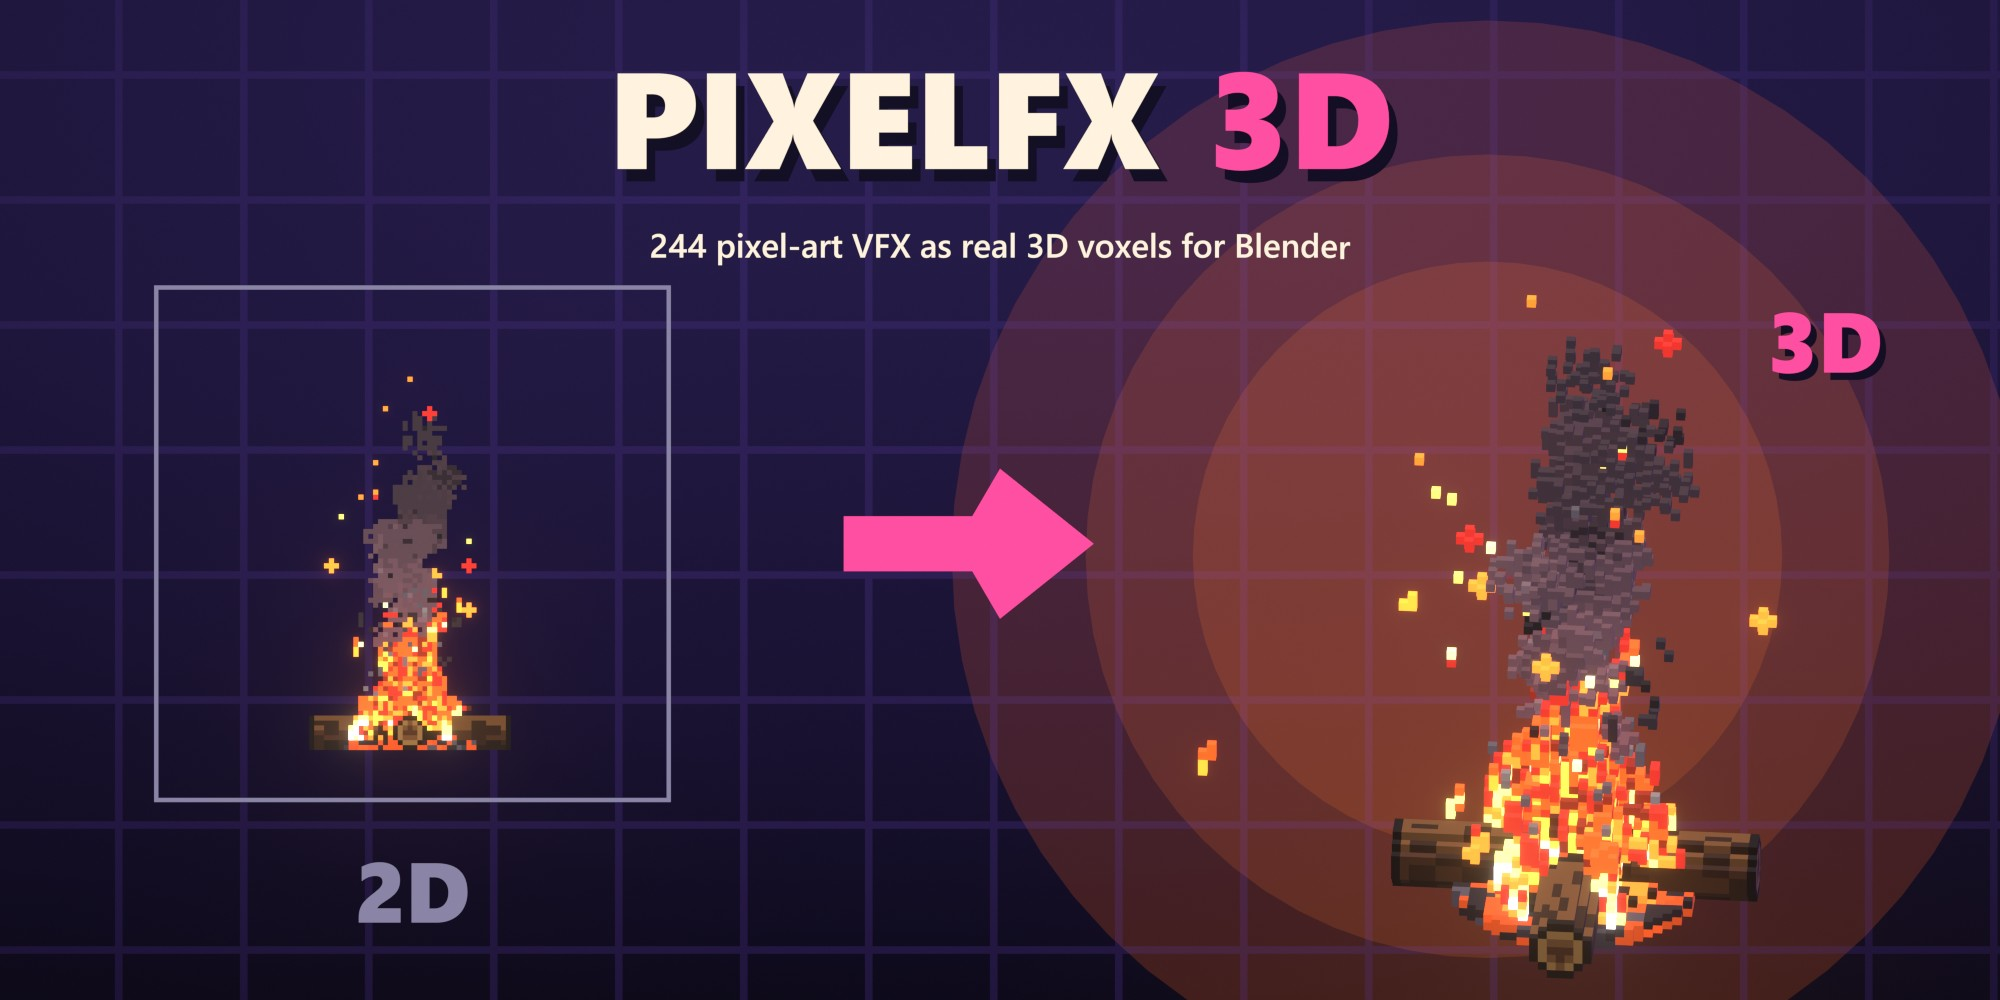
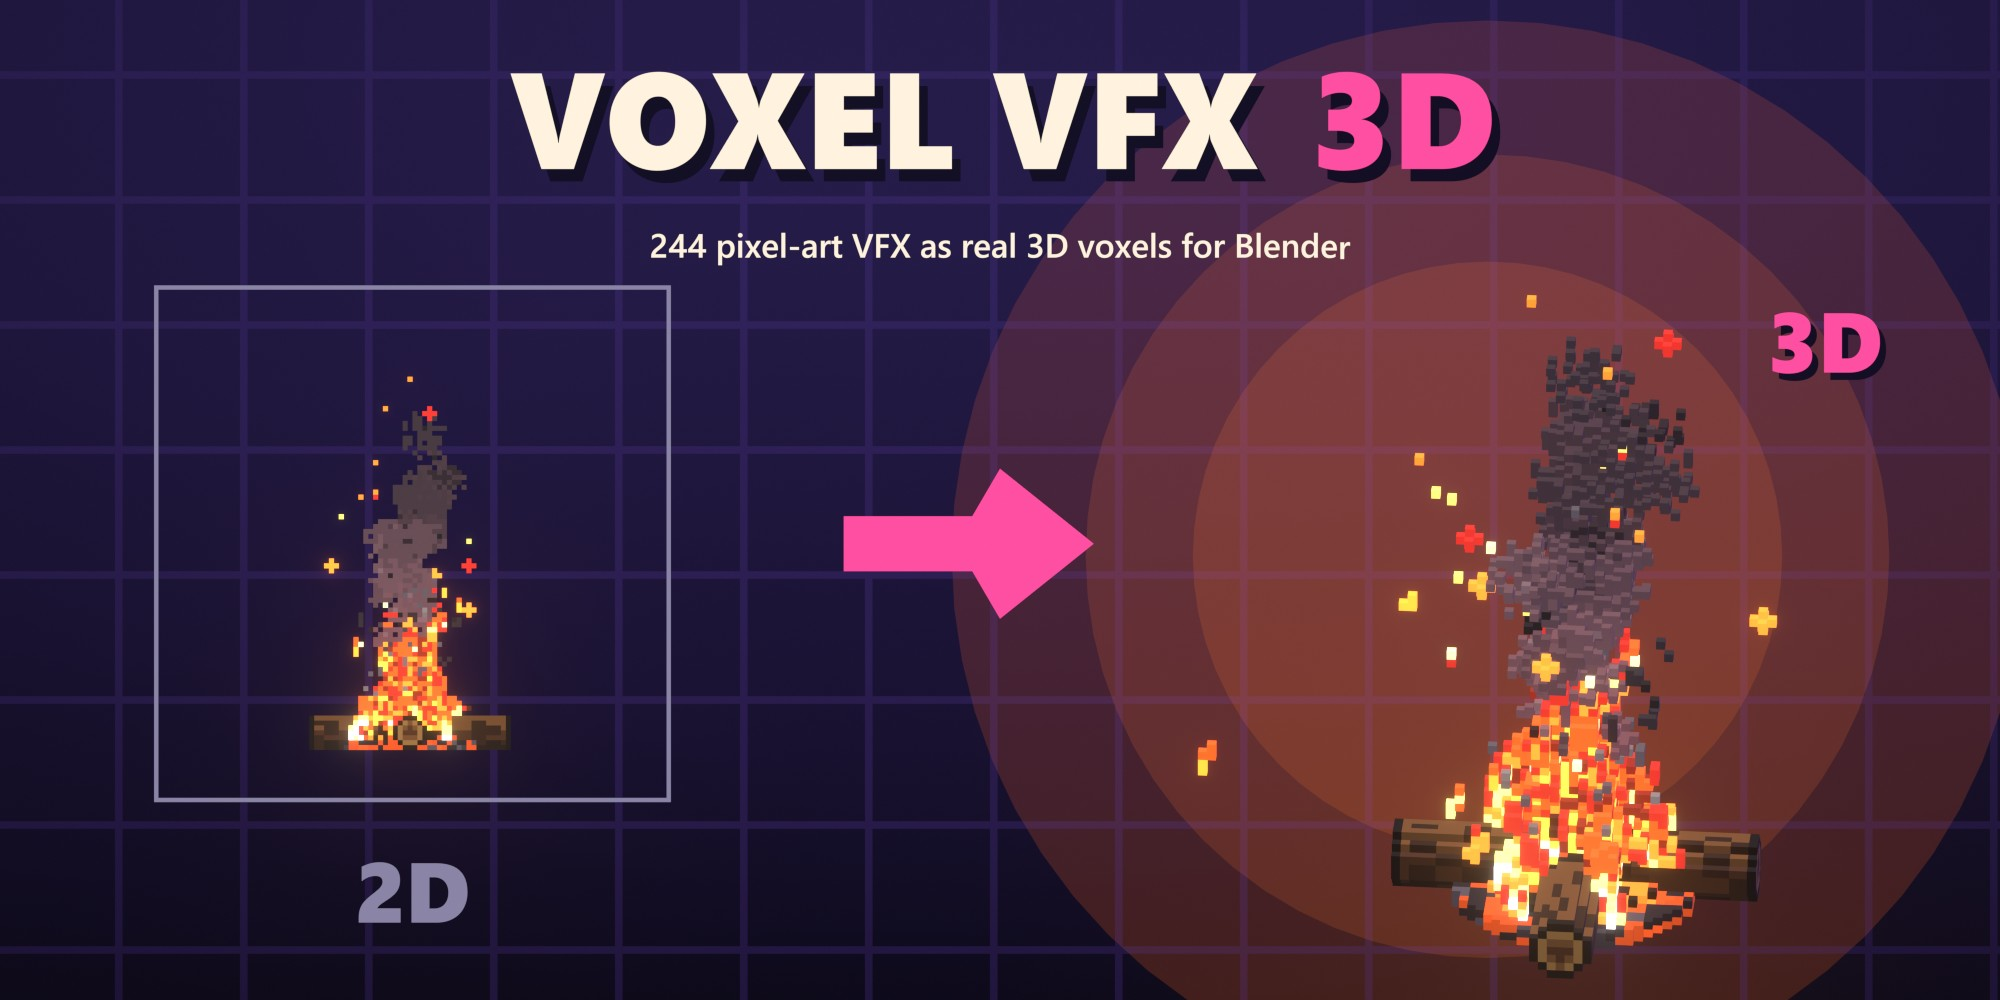
Rename the product to Voxel VFX 3D

Changed region(s): [[0.248, 0.062, 0.775, 0.186]]

diff --git a/docs.html b/docs.html
@@ -3,10 +3,10 @@
 <head>
 <meta charset="utf-8">
 <meta name="viewport" content="width=device-width, initial-scale=1">
-<title>PixelFX 3D: documentation</title>
-<meta name="description" content="How to install and use PixelFX 3D, the 3D voxel VFX library for Blender.">
-<meta property="og:title" content="PixelFX 3D: documentation">
-<meta property="og:description" content="How to install and use PixelFX 3D, the 3D voxel VFX library for Blender.">
+<title>Voxel VFX 3D: documentation</title>
+<meta name="description" content="How to install and use Voxel VFX 3D, the 3D voxel VFX library for Blender.">
+<meta property="og:title" content="Voxel VFX 3D: documentation">
+<meta property="og:description" content="How to install and use Voxel VFX 3D, the 3D voxel VFX library for Blender.">
 <meta property="og:image" content="images/thumbnail.jpg">
 <link rel="stylesheet" href="assets/style.css">
 </head>
@@ -14,7 +14,7 @@
 
 <header class="hero">
   <div class="wrap">
-    <h1 class="logo">PIXELFX <span>3D</span></h1>
+    <h1 class="logo">VOXEL VFX <span>3D</span></h1>
     <p class="tagline">Documentation</p>
     <nav class="docnav">
       <a href="#install">Install</a><a href="#use">Use an effect</a><a href="#inputs">Modifier inputs</a><a href="#timing">Timing</a>
@@ -29,11 +29,11 @@
     <div class="kicker">1</div>
     <h2>Install the library</h2>
     <ol class="steps">
-      <li>Unzip <b>PixelFX3D_Library.zip</b> somewhere it can stay, for example <code>Documents/Blender Assets/PixelFX 3D</code>. The folder holds <code>PixelFX 3D.blend</code>, its catalogs, a README and the license.</li>
+      <li>Unzip <b>VoxelVFX3D_Library.zip</b> somewhere it can stay, for example <code>Documents/Blender Assets/Voxel VFX 3D</code>. The folder holds <code>Voxel VFX 3D.blend</code>, its catalogs, a README and the license.</li>
       <li>In Blender open <b>Edit &gt; Preferences &gt; File Paths &gt; Asset Libraries</b>, press <b>+</b> and pick that folder.</li>
       <li>Leave the import method on <b>Append (Reuse Data)</b>: every effect you add shares one copy of the player node group.</li>
     </ol>
-    <div class="note"><p>PixelFX 3D is not an add-on. There is nothing to enable, and a .blend you send to someone else plays the effects as long as they have Blender 5.2 or newer.</p></div>
+    <div class="note"><p>Voxel VFX 3D is not an add-on. There is nothing to enable, and a .blend you send to someone else plays the effects as long as they have Blender 5.2 or newer.</p></div>
   </div>
 </section>
 
@@ -42,12 +42,12 @@
     <div class="kicker">2</div>
     <h2>Use an effect</h2>
     <ol class="steps">
-      <li>Turn any area into an <b>Asset Browser</b> (the timeline works well) and choose the <b>PixelFX 3D</b> library at the top left.</li>
+      <li>Turn any area into an <b>Asset Browser</b> (the timeline works well) and choose the <b>Voxel VFX 3D</b> library at the top left.</li>
       <li>Pick a category on the left, or type in the search field: <i>fire</i>, <i>portal</i>, <i>coin</i>.</li>
       <li>Drag an effect into the 3D viewport and let go. It lands on the surface under the cursor.</li>
       <li>Press play (<kbd>Space</kbd>). Every effect loops from frame 1.</li>
     </ol>
-    <p>An effect is an ordinary object: move, rotate and scale it, parent it to something, duplicate it with <kbd>Shift</kbd> <kbd>D</kbd>. Its mesh is empty; the <b>PixelFX 3D</b> modifier builds the cubes for the current frame, so the effect only appears when the modifier is on.</p>
+    <p>An effect is an ordinary object: move, rotate and scale it, parent it to something, duplicate it with <kbd>Shift</kbd> <kbd>D</kbd>. Its mesh is empty; the <b>Voxel VFX 3D</b> modifier builds the cubes for the current frame, so the effect only appears when the modifier is on.</p>
     <p>Change an effect's size by scaling the object, or with <b>Pixel Size</b> in the modifier's <b>Baked Effect</b> panel (the size of one art pixel, 0.025 m by default).</p>
   </div>
 </section>
@@ -131,7 +131,7 @@
     <h2>Troubleshooting</h2>
     <details><summary>I dropped an effect and nothing shows</summary><p>Check the modifier is enabled in the viewport, and that Loop is on, or that the current frame is after Start Frame. Some effects start small (a spark that grows into an explosion): play a few frames.</p></details>
     <details><summary>It looks flat or dull</summary><p>Add bloom (see Rendering) and use a dark world. In Solid view the voxels show without their glow: switch to Material Preview or Rendered.</p></details>
-    <details><summary>The library doesn't appear in the Asset Browser</summary><p>Make sure the folder you added in Preferences is the one with <code>PixelFX 3D.blend</code> and <code>blender_assets.cats.txt</code> in it, then pick the library in the Asset Browser's top-left menu. Blender 5.2 or newer is needed.</p></details>
+    <details><summary>The library doesn't appear in the Asset Browser</summary><p>Make sure the folder you added in Preferences is the one with <code>Voxel VFX 3D.blend</code> and <code>blender_assets.cats.txt</code> in it, then pick the library in the Asset Browser's top-left menu. Blender 5.2 or newer is needed.</p></details>
     <details><summary>The viewport is slow</summary><p>Raise Viewport Simplify, set LOD Distance, or a bigger Voxel Size on effects far from the camera.</p></details>
   </div>
 </section>
@@ -145,7 +145,7 @@
 </section>
 
 <footer>
-  <div class="wrap"><a href="index.html">PixelFX 3D for Blender</a> &middot; &copy; BlenderProcedural</div>
+  <div class="wrap"><a href="index.html">Voxel VFX 3D for Blender</a> &middot; &copy; BlenderProcedural</div>
 </footer>
 <script src="assets/embed.js"></script>
 </body>

diff --git a/index.html b/index.html
@@ -3,9 +3,9 @@
 <head>
 <meta charset="utf-8">
 <meta name="viewport" content="width=device-width, initial-scale=1">
-<title>PixelFX 3D: 244 pixel-art VFX as real 3D voxels for Blender</title>
+<title>Voxel VFX 3D: 244 pixel-art VFX as real 3D voxels for Blender</title>
 <meta name="description" content="244 pixel-art VFX rebuilt as real 3D voxels for Blender: fire, explosions, magic, lightning, water, weather, impacts, critters and more. Drag them from the Asset Browser, they loop, they glow. Blender 5.2+.">
-<meta property="og:title" content="PixelFX 3D: 244 pixel-art VFX as real 3D voxels for Blender">
+<meta property="og:title" content="Voxel VFX 3D: 244 pixel-art VFX as real 3D voxels for Blender">
 <meta property="og:description" content="244 pixel-art VFX rebuilt as real 3D voxels for Blender: fire, explosions, magic, lightning, water, weather, impacts, critters and more. Drag them from the Asset Browser, they loop, they glow. Blender 5.2+.">
 <meta property="og:image" content="images/thumbnail.jpg">
 <link rel="stylesheet" href="assets/style.css">
@@ -14,9 +14,9 @@
 
 <header class="hero">
   <div class="wrap">
-    <h1 class="logo">PIXELFX <span>3D</span></h1>
+    <h1 class="logo">VOXEL VFX <span>3D</span></h1>
     <p class="tagline">244 pixel-art effects, <span class="hl-pink">rebuilt as real 3D voxels.</span></p>
-    <div class="media"><video src="media/promo.mp4" poster="images/thumbnail.jpg" controls preload="none" playsinline aria-label="PixelFX 3D promo video"></video></div>
+    <div class="media"><video src="media/promo.mp4" poster="images/thumbnail.jpg" controls preload="none" playsinline aria-label="Voxel VFX 3D promo video"></video></div>
     <div class="txt hero-txt" style="margin-top:26px">
       <p class="lead">Fire, explosions, magic, lightning, water, weather, impacts, critters and more: every frame of every effect baked into voxels, one art pixel per cube. Drag an effect from Blender's <b>Asset Browser</b> into your scene and press play. It loops, it glows, and it is a real 3D object you can look at from any side.</p>
       <div class="chips">
@@ -48,13 +48,13 @@
       <div class="kicker">Drag. Drop. Done.</div>
       <h2>Straight from <span class="hl">the Asset Browser.</span></h2>
       <ol class="steps">
-        <li>Add the PixelFX 3D folder once in <b>Preferences &gt; File Paths &gt; Asset Libraries</b>.</li>
+        <li>Add the Voxel VFX 3D folder once in <b>Preferences &gt; File Paths &gt; Asset Libraries</b>.</li>
         <li>Open an <b>Asset Browser</b>, pick a category or search by name.</li>
         <li>Drag an effect into the viewport. It lands on the surface under the cursor. Press play.</li>
       </ol>
       <p class="muted">No add-on to install or enable: the library is a .blend file. Every effect is a mesh object with one Geometry Nodes modifier.</p>
     </div>
-    <div class="media"><video src="media/howto.mp4" poster="images/inside-blender.jpg" controls preload="none" playsinline aria-label="Using PixelFX 3D in Blender: drag and drop from the Asset Browser"></video></div>
+    <div class="media"><video src="media/howto.mp4" poster="images/inside-blender.jpg" controls preload="none" playsinline aria-label="Using Voxel VFX 3D in Blender: drag and drop from the Asset Browser"></video></div>
   </div>
 </section>
 
@@ -71,7 +71,7 @@
         <li>Timing, colours and motion are the originals': the voxels are baked from each effect's own code, frame by frame</li>
       </ul>
     </div>
-    <div class="media"><video src="media/scene.mp4" poster="images/in-a-scene.jpg" controls preload="none" playsinline aria-label="PixelFX 3D effects in a courtyard scene, filmed from several angles"></video></div>
+    <div class="media"><video src="media/scene.mp4" poster="images/in-a-scene.jpg" controls preload="none" playsinline aria-label="Voxel VFX 3D effects in a courtyard scene, filmed from several angles"></video></div>
   </div>
 </section>
 
@@ -91,7 +91,7 @@
       </table></div>
       <p><a href="docs.html">Read the documentation &rarr;</a></p>
     </div>
-    <div class="media"><img src="images/inside-blender.jpg" alt="An effect selected in Blender with the PixelFX 3D modifier open" loading="lazy" width="2000" height="1000"></div>
+    <div class="media"><img src="images/inside-blender.jpg" alt="An effect selected in Blender with the Voxel VFX 3D modifier open" loading="lazy" width="2000" height="1000"></div>
   </div>
 </section>
 
@@ -131,9 +131,9 @@
       <div class="kicker">Getting started</div>
       <h2>Up and running <span class="hl">in a minute.</span></h2>
       <ol class="steps">
-        <li>Unzip <b>PixelFX3D_Library</b> anywhere, for example in your Documents.</li>
+        <li>Unzip <b>VoxelVFX3D_Library</b> anywhere, for example in your Documents.</li>
         <li><b>Edit &gt; Preferences &gt; File Paths &gt; Asset Libraries</b>, press <b>+</b> and pick that folder.</li>
-        <li>Open an Asset Browser, choose <b>PixelFX 3D</b> and drag an effect into your scene.</li>
+        <li>Open an Asset Browser, choose <b>Voxel VFX 3D</b> and drag an effect into your scene.</li>
       </ol>
       <p class="muted">Requires Blender 5.2 or newer. Works in EEVEE and Cycles. <a href="docs.html">Documentation</a></p>
     </div>
@@ -156,7 +156,7 @@
 </section>
 
 <footer>
-  <div class="wrap">PixelFX 3D for Blender &middot; <a href="docs.html">Documentation</a> &middot; &copy; BlenderProcedural</div>
+  <div class="wrap">Voxel VFX 3D for Blender &middot; <a href="docs.html">Documentation</a> &middot; &copy; BlenderProcedural</div>
 </footer>
 
 <script src="assets/embed.js"></script>

diff --git a/assets/embed.js b/assets/embed.js
@@ -11,7 +11,7 @@
     a.rel = 'noopener';
   });
   function post() {
-    try { parent.postMessage({ type: 'pixelfx3d-height', height: document.documentElement.scrollHeight }, '*'); } catch (err) { /* ignore */ }
+    try { parent.postMessage({ type: 'voxelvfx3d-height', height: document.documentElement.scrollHeight }, '*'); } catch (err) { /* ignore */ }
   }
   window.addEventListener('load', post);
   if (window.ResizeObserver) new ResizeObserver(post).observe(document.body);

diff --git a/README.md b/README.md
@@ -1,13 +1,13 @@
-# PixelFX 3D: product page
+# Voxel VFX 3D: product page
 
-The product page and documentation for **PixelFX 3D**, 244 pixel-art VFX rebuilt as real 3D voxels for Blender 5.2+:
+The product page and documentation for **Voxel VFX 3D**, 244 pixel-art VFX rebuilt as real 3D voxels for Blender 5.2+:
 an asset library you drag from the Asset Browser, every effect one object with one Geometry Nodes modifier.
 
 This repository holds only the description, the media and the docs. The library itself is sold on Superhive and is
 not included here.
 
-- Product page: `index.html`, at https://blenderprocedural.github.io/pixelfx-3d/
-- Documentation: `docs.html`, at https://blenderprocedural.github.io/pixelfx-3d/docs.html
+- Product page: `index.html`, at https://blenderprocedural.github.io/voxel-vfx-3d/
+- Documentation: `docs.html`, at https://blenderprocedural.github.io/voxel-vfx-3d/docs.html
 - `effects/`: a looping GIF of each of the 244 effects, by category
 - `images/`: the store images; `media/`: the promo, the how-to and a scene film
 - `assets/`: style and the iframe helper; Inter is bundled in `fonts/`, so the pages make no external requests
@@ -15,10 +15,10 @@ not included here.
 ## Embedding
 
 Both pages work inside an iframe: links to other pages open in a new tab, and the page posts its height to the
-parent window as `{type: "pixelfx3d-height", height}`.
+parent window as `{type: "voxelvfx3d-height", height}`.
 
 ```html
-<iframe src="https://blenderprocedural.github.io/pixelfx-3d/" width="100%" height="6000" style="border:0;display:block;" title="PixelFX 3D"></iframe>
+<iframe src="https://blenderprocedural.github.io/voxel-vfx-3d/" width="100%" height="6000" style="border:0;display:block;" title="Voxel VFX 3D"></iframe>
 ```
 
 ## License
